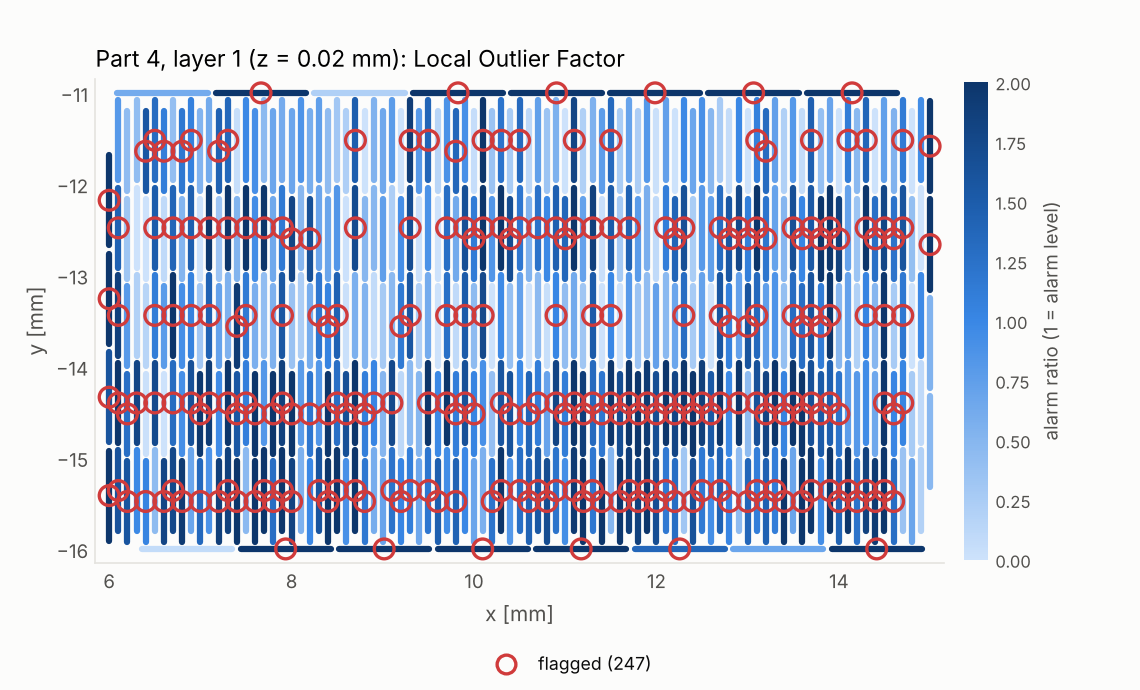
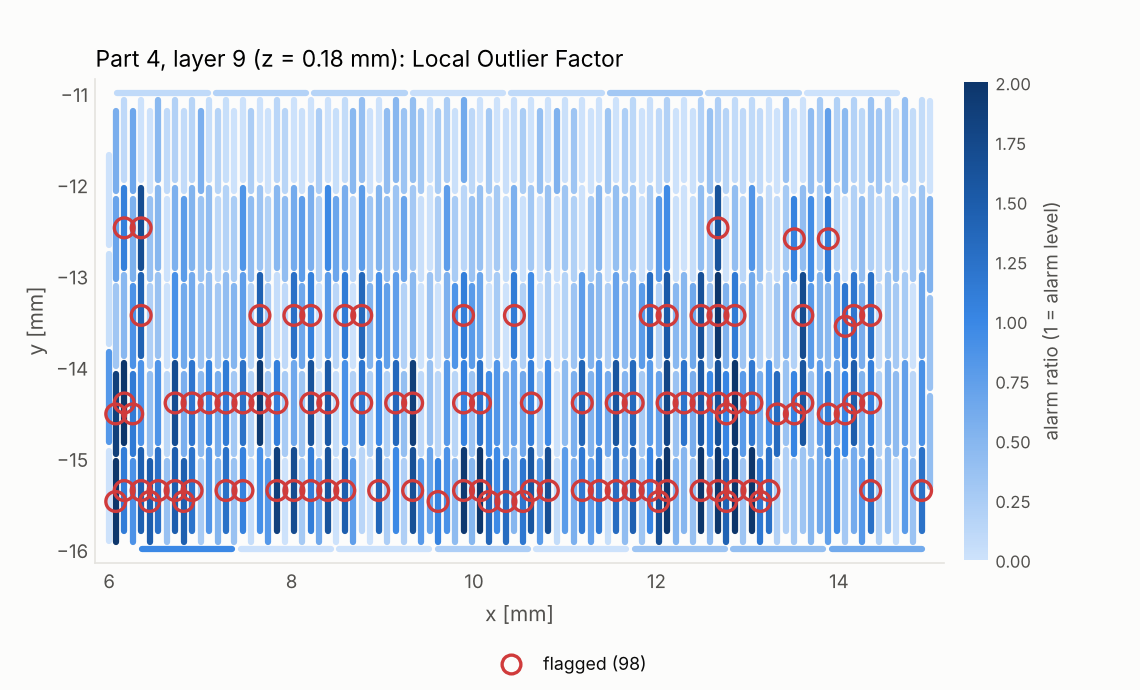
Update the docs: sources of all numbers, layer heatmaps, surface rule
- Numbers that the pipeline does not write now point to
  results/nist_x4/extra_numbers.md (scripts/extra_numbers.py). All numbers
  that came from ad-hoc code before were checked with it and are unchanged.
- The main heatmap shows layer 9 (most alarms above layer 1); layer 1 has
  its own figure. New table: share of segments flagged in layer 1, layers
  2-20 and layers 21-250. The layer-1 melt pool of the test part is also
  bigger than in layer 1 of the training parts.
- "Not a defect" for layer 1 is now "most likely, not checked" (these
  layers have no XCT value).
- The XCT surface rule is described as it works: 0.25 mm from a side
  face, up to 0.5 mm on some faces.
- Run times are from a new full run (all other numbers are the same as
  before); the README says they change from run to run. The full run
  takes about 3.5 minutes and 3 GB here.
- Small wording fixes: "of the methods tuned to 1 %", "tuned fixed
  limits", "on the injected faults in the test part".

Claude-Session: https://claude.ai/code/session_01VFASyaBYtEmEAuhq2fyVUS

diff --git a/docs/report.md b/docs/report.md
@@ -2,7 +2,11 @@
 
 > Results from the full run on all four NIST parts, 17 November 2026
 > (`configs/nist_x4.yaml`). Every number in sections 4 and 5 comes from the
-> files that run wrote to `results/nist_x4/`, unless it says otherwise.
+> files that run wrote to `results/nist_x4/`. A few numbers (alarms per
+> layer, rank correlation inside each layer, melt pool size per part) come
+> from `results/nist_x4/extra_numbers.md`, which
+> `python scripts/extra_numbers.py --config configs/nist_x4.yaml` writes
+> from the same run.
 
 ## 1. Goal
 
@@ -78,12 +82,15 @@ randomness ran with 3 seeds (mean ± std).
 
 | Method | Precision | Recall | F1 | False rejection rate | PR-AUC | FRR at 90 % recall | Run time [ms/layer] |
 |---|---:|---:|---:|---:|---:|---:|---:|
-| Fixed limits (3-sigma rule) | 0.118 | 0.789 | 0.206 | 9.2 % | 0.334 | 37.7 % | 0.060 |
-| Fixed limits (tuned k) | 0.341 | 0.522 | 0.413 | 1.6 % | 0.334 | 37.7 % | 0.091 |
-| Isolation Forest | 0.407 ± 0.005 | 0.519 ± 0.016 | 0.456 ± 0.009 | 1.2 ± 0.0 % | 0.432 ± 0.025 | 36.8 ± 1.3 % | 2.310 ± 0.148 |
-| Local Outlier Factor | 0.348 ± 0.005 | 0.686 ± 0.005 | 0.462 ± 0.003 | 2.0 ± 0.1 % | 0.626 ± 0.003 | 30.7 ± 0.2 % | 11.338 ± 0.196 |
-| One-Class SVM | 0.391 ± 0.008 | 0.656 ± 0.007 | 0.489 ± 0.005 | 1.6 ± 0.1 % | 0.609 ± 0.006 | 32.5 ± 3.3 % | 2.276 ± 0.151 |
-| Conv. autoencoder | 0.304 ± 0.018 | 0.306 ± 0.022 | 0.305 ± 0.020 | 1.1 ± 0.0 % | 0.287 ± 0.018 | 62.7 ± 1.6 % | 0.480 ± 0.053 |
+| Fixed limits (3-sigma rule) | 0.118 | 0.789 | 0.206 | 9.2 % | 0.334 | 37.7 % | 0.053 |
+| Fixed limits (tuned k) | 0.341 | 0.522 | 0.413 | 1.6 % | 0.334 | 37.7 % | 0.050 |
+| Isolation Forest | 0.407 ± 0.005 | 0.519 ± 0.016 | 0.456 ± 0.009 | 1.2 ± 0.0 % | 0.432 ± 0.025 | 36.8 ± 1.3 % | 2.172 ± 0.174 |
+| Local Outlier Factor | 0.348 ± 0.005 | 0.686 ± 0.005 | 0.462 ± 0.003 | 2.0 ± 0.1 % | 0.626 ± 0.003 | 30.7 ± 0.2 % | 11.742 ± 0.588 |
+| One-Class SVM | 0.391 ± 0.008 | 0.656 ± 0.007 | 0.489 ± 0.005 | 1.6 ± 0.1 % | 0.609 ± 0.006 | 32.5 ± 3.3 % | 2.470 ± 0.125 |
+| Conv. autoencoder | 0.304 ± 0.018 | 0.306 ± 0.022 | 0.305 ± 0.020 | 1.1 ± 0.0 % | 0.287 ± 0.018 | 62.7 ± 1.6 % | 0.422 ± 0.049 |
+
+Run time: time to score the test part, per layer, on 2 CPU cores. It
+changes a little from run to run.
 
 ![Precision-recall curves](images/full_pr_curves.png)
 
@@ -134,12 +141,28 @@ segments away from the surface, no injected faults):
 
 **Alarms on the clean test part.** 3 915 of 88 378 segments were flagged by
 at least one tuned method (2 382 by one method, 861 by two, 434 by three,
-163 by four, 75 by all five). 325 of them are in layer 1.
+163 by four, 75 by all five). 325 of them are in layer 1. Scores and alarms
+of methods with randomness are from the first seed here.
 
-![Layer 1 of the test part](images/full_layer_heatmap.png)
+The lowest layers have more alarms than the rest of the part:
 
-Layer 1, Local Outlier Factor: 247 of the 469 segments in this layer are
-flagged.
+| Method | Layer 1 (469 segments) | Layers 2–20 (9 453) | Layers 21–250 (78 456) |
+|---|---:|---:|---:|
+| Fixed limits (3-sigma rule) | 75.5 % | 16.7 % | 7.8 % |
+| Fixed limits (tuned k) | 20.0 % | 1.8 % | 1.4 % |
+| Isolation Forest | 1.3 % | 0.3 % | 1.3 % |
+| Local Outlier Factor | 52.7 % | 4.8 % | 1.4 % |
+| One-Class SVM | 56.1 % | 1.6 % | 1.2 % |
+| Conv. autoencoder | 0.0 % | 0.8 % | 1.1 % |
+
+(Share of segments flagged.)
+
+![Layer 9 of the test part](images/full_layer_heatmap.png)
+
+The layer with the most alarms above layer 1 is layer 9. Local Outlier
+Factor flags 98 of its 504 segments. Layer 1 itself is shown in
+[`full_layer_heatmap_layer1.png`](images/full_layer_heatmap_layer1.png)
+(247 of 469 segments flagged).
 
 ## 5. What the results mean
 
@@ -149,9 +172,10 @@ flagged.
   alarm level carries over from part to part only roughly. The melt pool
   of part 4 is a little bigger than that of parts 1 to 3
   ([`data_notes.md`](data_notes.md)), which may explain part of this.
-- **Better than fixed limits?** At a low alarm rate, yes. Local Outlier
-  Factor and One-Class SVM find 69 % and 66 % of the faulty segments at
-  2.0 % and 1.6 % false rejections. Tuned fixed limits find 52 % at 1.6 %.
+- **Better than fixed limits?** On the injected faults in the test part,
+  at a low alarm rate, yes. Local Outlier Factor and One-Class SVM find
+  69 % and 66 % of the faulty segments at 2.0 % and 1.6 % false
+  rejections. Tuned fixed limits find 52 % at 1.6 %.
   PR-AUC: 0.63 and 0.61 against 0.33. The 3-sigma rule finds 79 %, but at
   9.2 % false rejections.
 - **At high recall, no.** To catch 90 % of the faulty segments, every
@@ -168,23 +192,27 @@ flagged.
   fixed limits, which keep separate limits for the overhang region, flag
   1.0 % there. The amount of metal below is an input to every method, but
   only the fixed limits use it to keep separate limits.
-- **Layer 1.** The first layer on the build plate has a bigger melt pool.
-  Local Outlier Factor flags 52.7 % and One-Class SVM 56.1 % of its
-  segments; the 3-sigma rule 75.5 %. Layer 1 holds only 469 of the 88 378
-  test segments, but 325 of the 3 915 flagged ones. (Share per layer worked
-  out from `scores_test.parquet`.) This is a real difference in the
-  process, not a defect.
+- **Layer 1 and the lowest layers.** The first layer on the build plate
+  has a bigger melt pool than the layers above. In the test part it is also
+  much bigger than in layer 1 of the training parts (infill middle value
+  0.0287 mm² against 0.0236 and 0.0242 mm²). Local Outlier Factor flags
+  52.7 % and One-Class SVM 56.1 % of its segments; the 3-sigma rule 75.5 %.
+  Layer 1 holds only 469 of the 88 378 test segments, but 325 of the 3 915
+  flagged ones. Layers 2 to 20 also have more alarms than the layers above
+  for most methods (Local Outlier Factor: 4.8 % against 1.4 %). Most likely
+  this is a normal difference near the build plate, not a defect. This was
+  not checked: these layers have no XCT value.
 - **XCT.** The alarms cannot be checked against pores, because XCT shows
   none away from the surface. The rank correlation is weak (at most −0.16).
   When the score and the XCT value are both ranked inside each layer, it
   gets weaker still (for example −0.09 for Isolation Forest and −0.04 for
-  the tuned fixed limits, worked out from `scores_test.parquet`). So part
+  the tuned fixed limits, first seed). So part
   of it comes from slow changes up the part, not from single spots. It is
   not evidence that any method finds pores.
-- **Top of `traceability.csv`.** The top rows are segments flagged by all
-  five tuned methods, spread over many layers (for example layers 104, 152,
-  118, 64, 227) over solid metal. Nobody has looked at these spots in the
-  raw data yet.
+- **Top of `traceability.csv`.** The top rows are the 75 segments flagged
+  by all five tuned methods, spread over 63 layers (the first five: layers
+  104, 152, 118, 64, 227, all over solid metal; 12 of the 75 are over the
+  overhang region). Nobody has looked at these spots in the raw data yet.
 
 ## 6. Limits of this work
 

diff --git a/README.md b/README.md
@@ -76,7 +76,7 @@ Column list and open questions: [`docs/data_notes.md`](docs/data_notes.md).
 | Label | Meaning | Use |
 |---|---|---|
 | Injected faults | Spikes, drops, drifts and noise bursts added to normal test signals. Place and size are known exactly. | Main numbers |
-| XCT pores | The X-ray CT value at the segment says "pore". Points near any surface of the part are left out (there XCT mixes metal and air). | Check against real defects |
+| XCT pores | The X-ray CT value at the segment says "pore". Points near any surface of the part are left out (closer than 0.25 mm to a side face, on some faces up to 0.5 mm, or closer than 0.06 mm to a top or bottom face), because there XCT mixes metal and air. | Check against real defects |
 | Overhang region | Less than 0.5 mm solid metal below the segment | Shows where false rejections come from. **Not** a defect. |
 
 ## Quick start (fake sample data, about 15 seconds)
@@ -111,6 +111,9 @@ python scripts/run_pipeline.py --config configs/nist_x4_one_part.yaml
 python scripts/download_data.py --parts 2 3 4
 python scripts/check_xct.py --config configs/nist_x4.yaml
 python scripts/run_pipeline.py --config configs/nist_x4.yaml
+
+# 4. Numbers in the docs that the pipeline does not write (after step 3)
+python scripts/extra_numbers.py --config configs/nist_x4.yaml
 ```
 
 Before step 2, read the output of `inspect_data.py` and check the open points
@@ -120,7 +123,7 @@ threshold.
 The NIST zip files unpack one folder deeper (`data/raw/part1/part01/L0001.csv`).
 The loader searches all sub-folders, so `data/raw/part1` in the config works.
 
-The full run takes about 3 minutes on a laptop with 2 CPU cores and needs
+The full run takes about 3.5 minutes on a machine with 2 CPU cores and needs
 about 3 GB of memory. Reading the CSV files the first time adds about
 20 seconds; after that a Parquet copy in `data/processed/` is used.
 
@@ -146,16 +149,17 @@ segments are flagged. Only the 3-sigma rule keeps its fixed level.
 
 | Method | Precision | Recall | F1 | False rejection rate | PR-AUC | FRR at 90 % recall | Run time [ms/layer] |
 |---|---:|---:|---:|---:|---:|---:|---:|
-| Fixed limits (3-sigma rule) | 0.118 | 0.789 | 0.206 | 9.2 % | 0.334 | 37.7 % | 0.060 |
-| Fixed limits (tuned k) | 0.341 | 0.522 | 0.413 | 1.6 % | 0.334 | 37.7 % | 0.091 |
-| Isolation Forest | 0.407 ± 0.005 | 0.519 ± 0.016 | 0.456 ± 0.009 | 1.2 ± 0.0 % | 0.432 ± 0.025 | 36.8 ± 1.3 % | 2.310 ± 0.148 |
-| Local Outlier Factor | 0.348 ± 0.005 | 0.686 ± 0.005 | 0.462 ± 0.003 | 2.0 ± 0.1 % | 0.626 ± 0.003 | 30.7 ± 0.2 % | 11.338 ± 0.196 |
-| One-Class SVM | 0.391 ± 0.008 | 0.656 ± 0.007 | 0.489 ± 0.005 | 1.6 ± 0.1 % | 0.609 ± 0.006 | 32.5 ± 3.3 % | 2.276 ± 0.151 |
-| Conv. autoencoder | 0.304 ± 0.018 | 0.306 ± 0.022 | 0.305 ± 0.020 | 1.1 ± 0.0 % | 0.287 ± 0.018 | 62.7 ± 1.6 % | 0.480 ± 0.053 |
+| Fixed limits (3-sigma rule) | 0.118 | 0.789 | 0.206 | 9.2 % | 0.334 | 37.7 % | 0.053 |
+| Fixed limits (tuned k) | 0.341 | 0.522 | 0.413 | 1.6 % | 0.334 | 37.7 % | 0.050 |
+| Isolation Forest | 0.407 ± 0.005 | 0.519 ± 0.016 | 0.456 ± 0.009 | 1.2 ± 0.0 % | 0.432 ± 0.025 | 36.8 ± 1.3 % | 2.172 ± 0.174 |
+| Local Outlier Factor | 0.348 ± 0.005 | 0.686 ± 0.005 | 0.462 ± 0.003 | 2.0 ± 0.1 % | 0.626 ± 0.003 | 30.7 ± 0.2 % | 11.742 ± 0.588 |
+| One-Class SVM | 0.391 ± 0.008 | 0.656 ± 0.007 | 0.489 ± 0.005 | 1.6 ± 0.1 % | 0.609 ± 0.006 | 32.5 ± 3.3 % | 2.470 ± 0.125 |
+| Conv. autoencoder | 0.304 ± 0.018 | 0.306 ± 0.022 | 0.305 ± 0.020 | 1.1 ± 0.0 % | 0.287 ± 0.018 | 62.7 ± 1.6 % | 0.422 ± 0.049 |
 
 Precision looks low for every method because faulty segments are rare
 (1.5 %). A method that guesses at random gets a PR-AUC of about 0.015.
-Run time is the time to score the test part, per layer, on 2 CPU cores.
+Run time is the time to score the test part, per layer, on 2 CPU cores. It
+changes from run to run (by up to about 20 % between three full runs).
 
 ![Precision-recall curves, full run](docs/images/full_pr_curves.png)
 
@@ -211,10 +215,10 @@ single spots (see [the report](docs/report.md#5-what-the-results-mean)).
 
 ### What the results say
 
-- Local Outlier Factor and One-Class SVM catch the most injected faults
-  (recall 0.69 and 0.66, PR-AUC 0.63 and 0.61) while flagging 2.0 % and
-  1.6 % of normal segments. Tuned fixed limits reach recall 0.52 and
-  PR-AUC 0.33 at 1.6 %.
+- Of the methods tuned to a 1 % alarm level, Local Outlier Factor and
+  One-Class SVM catch the most injected faults (recall 0.69 and 0.66,
+  PR-AUC 0.63 and 0.61) while flagging 2.0 % and 1.6 % of normal segments.
+  Tuned fixed limits reach recall 0.52 and PR-AUC 0.33 at 1.6 %.
 - To catch 90 % of the faulty segments, every method except the
   autoencoder must flag about a third of the normal segments (30.7 to
   37.7 %). So the learned methods help most at low alarm rates.
@@ -226,13 +230,20 @@ single spots (see [the report](docs/report.md#5-what-the-results-mean)).
 - Slow drifts are the hardest kind for most methods. The autoencoder is the
   weakest method here (PR-AUC 0.29).
 - Isolation Forest and One-Class SVM give many false rejections in the
-  overhang region (18.8 % and 9.1 %). The fixed limits, which are set per
-  region, give 1.0 % there.
+  overhang region (18.8 % and 9.1 %). The tuned fixed limits, which are set
+  per region, give 1.0 % there.
 - Many alarms on the clean test part are in layer 1, the first layer on the
-  build plate (325 of 3 915 flagged segments). Its melt pool is bigger than
-  in the layers above. The layer heatmap below shows this layer.
+  build plate (325 of 3 915 flagged segments, from only 469 of 88 378
+  segments). Its melt pool is bigger than in the layers above, and bigger
+  than in layer 1 of the training parts. Layers 2 to 20 also get more
+  alarms than the rest for most methods
+  ([numbers](docs/report.md#4-results)).
 
-![Layer 1 of the test part, Local Outlier Factor](docs/images/full_layer_heatmap.png)
+The heatmap below shows layer 9, the layer with the most alarms above
+layer 1. Layer 1 is in
+[`full_layer_heatmap_layer1.png`](docs/images/full_layer_heatmap_layer1.png).
+
+![Layer 9 of the test part, Local Outlier Factor](docs/images/full_layer_heatmap.png)
 
 ### What the results do not show
 
@@ -284,7 +295,8 @@ the segment is at a surface), so someone can go and look at that exact spot.
 │   ├── images/         figures shown in the docs (full_* = full run)
 │   └── report.md       short report with results and recommendations
 ├── notebooks/          01_explore, 02_results
-├── scripts/            download_data, inspect_data, check_xct, run_pipeline, make_sample_data
+├── scripts/            download_data, inspect_data, check_xct, run_pipeline,
+│                       extra_numbers, make_sample_data
 ├── src/
 │   ├── load.py         read the NIST files
 │   ├── features.py     tracks, segments, features

diff --git a/docs/data_notes.md b/docs/data_notes.md
@@ -93,7 +93,10 @@ full download is described in the next section.
 ## The full download (all four parts)
 
 Checked on 17 November 2026 with `scripts/inspect_data.py`,
-`scripts/check_xct.py` and the full run (`configs/nist_x4.yaml`).
+`scripts/check_xct.py` and the full run (`configs/nist_x4.yaml`). The counts,
+tracks and melt pool numbers in the table below are written by
+`python scripts/extra_numbers.py --config configs/nist_x4.yaml` to
+`results/nist_x4/extra_numbers.md`.
 
 | Point | What was seen |
 |---|---|
@@ -110,8 +113,9 @@ Checked on 17 November 2026 with `scripts/inspect_data.py`,
 | Overhang region | Less than 0.5 mm solid metal below: 5.6 % of all frames, in layers 64 to 250. Over it the infill melt pool is only 2 to 4 % bigger (middle value). Directly over powder (less than 0.1 mm metal below) it is smaller: 0.0172 to 0.0196 mm². |
 
 The melt pool numbers above are middle values over frames with
-`cmd_power` 195 W and `mp_area_100` > 0, worked out from the loaded parts
-(`data/processed/`). They are not written by the pipeline.
+`cmd_power` 195 W (infill) or 100 W (contour) and `mp_area_100` > 0, from
+`scripts/extra_numbers.py` (see above). "Layers 51 to 250" is "layers > 50"
+there.
 
 ### XCT on the full parts
 
@@ -133,14 +137,20 @@ layer are left out), the automatic threshold (median − 6 robust std, about
   (layers 25–26 and 49–50; the cross-section starts to shrink at layer 27
   and the number of frames per layer drops by about 30 % at layer 51);
 - the outer side faces at the largest y and the largest x of each part.
-  The old rule missed them because these points lie exactly on a cell border.
+  The parts are 9 × 5 mm, a whole number of 0.25 mm cells, so the outermost
+  line of points at the largest x (and y) starts a new cell of its own. The
+  old rule then marked only that one line.
 
 So all low XCT values are at a surface, where an XCT voxel holds metal and
 air. They are **not** pores.
 
 **With the full surface rule** (`labels.add_xct_surface`: points closer than
-0.5 mm to the outside in the same layer, or closer than 0.06 mm to a top
-face, a face over powder or the start of the XCT scan, are left out):
+0.25 mm to the outside in the same layer, or closer than 0.06 mm to a top
+face, a face over powder or the start of the XCT scan, are left out). The
+side check works on 0.25 mm cells, so on some faces points up to 0.5 mm
+from the outside are left out too. `check_xct.py` prints how close the inner
+points come to the outer faces: in all four parts 0.50 to 0.51 mm at the
+smallest x and y, and 0.25 to 0.26 mm at the largest x and y.
 
 | Part | Inner points | Middle value | Lowest value | Auto threshold | Points below it |
 |---|---:|---:|---:|---:|---:|
